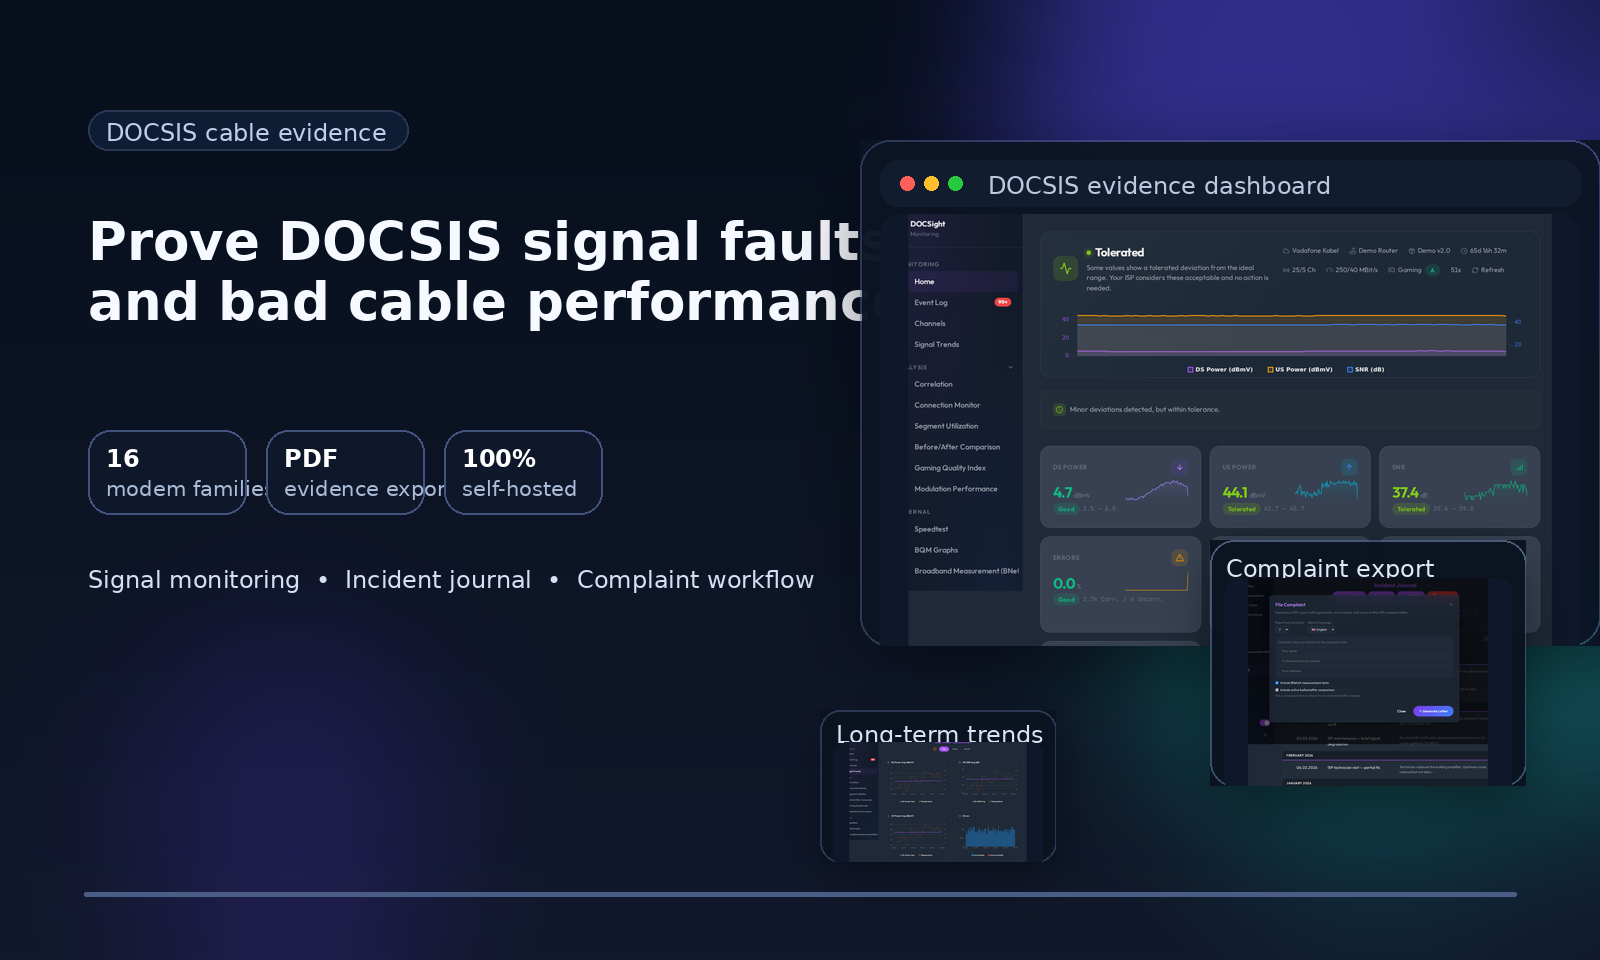
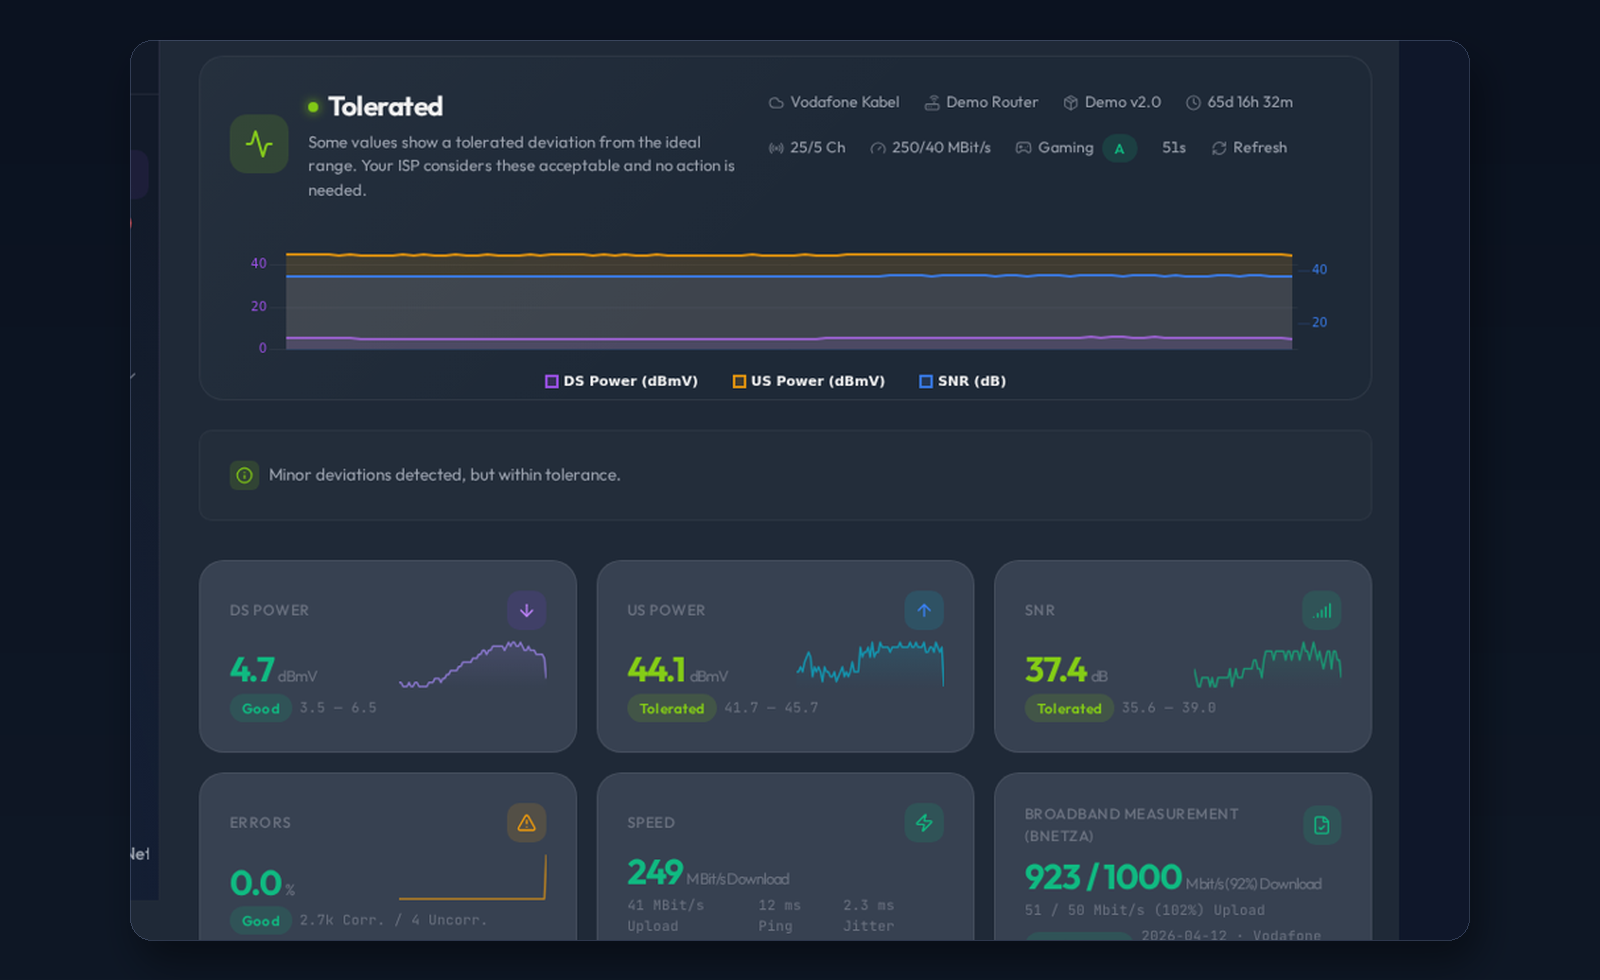
docs: replace hero with a cleaner editorial screenshot

diff --git a/README.md b/README.md
@@ -37,11 +37,11 @@
 </p>
 
 <p align="center">
-  <img src="docs/screenshots/readme-hero-evidence.png" alt="DOCSight README hero" width="100%" />
+  <img src="docs/screenshots/readme-hero-evidence.png" alt="DOCSight dashboard" width="100%" />
 </p>
 
 <p align="center">
-  <em>A self-hosted DOCSIS evidence layer for cable internet problems: signal monitoring, long-term performance history, incident tracking, and complaint-ready exports when your ISP keeps waving away signal faults and bad performance.</em>
+  <em>DOCSIS signal monitoring, long-term performance history, incident tracking, and complaint-ready exports in one self-hosted dashboard.</em>
 </p>
 
 ---
